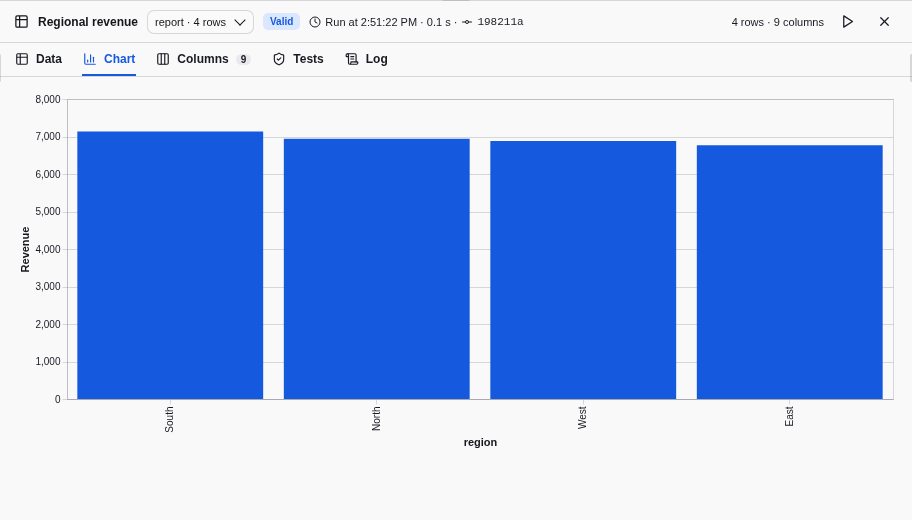
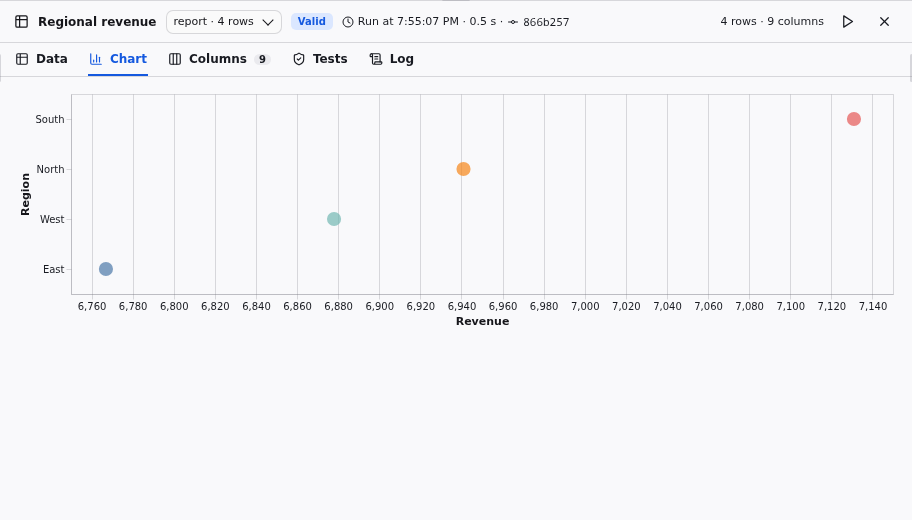
feat(charts): plot the example as points with tooltips
Northstar's regional revenues differ by about 5 %, which bars starting
at 0 hide. The example chart now plots one point per region on a
revenue axis that does not start at 0, leading region first, with a
tooltip on hover. Add a chart's starter bar chart enables tooltips too.

diff --git a/frontend/e2e/northstar.spec.ts b/frontend/e2e/northstar.spec.ts
@@ -72,7 +72,8 @@ test("Northstar runs its data tests, messages, computed variable and shared view
     "10 of 107 rows match",
   );
 
-  // Regional revenue charts its ranked regions, the leading region first.
+  // Regional revenue charts its ranked regions, the leading region first, on
+  // a revenue axis that does not start at 0.
   await node("report").locator(".node-shape").click();
   await page.getByLabel("Output", { exact: true }).selectOption("report");
   await results.getByRole("tab", { name: "Chart", exact: true }).click();
@@ -80,12 +81,18 @@ test("Northstar runs its data tests, messages, computed variable and shared view
     "Revenue by region",
   );
   const chart = results.locator(".chart-view svg");
-  await expect(chart.locator(".mark-rect path")).toHaveCount(4);
-  const regions = chart
-    .locator(".role-axis")
-    .filter({ hasText: "region" })
-    .locator(".role-axis-label text");
-  await expect(regions).toHaveText(["South", "North", "West", "East"]);
+  const points = chart.locator(".mark-symbol path");
+  await expect(points).toHaveCount(4);
+  const axis = (title: string) =>
+    chart
+      .locator(".role-axis")
+      .filter({ has: page.locator(".role-axis-title", { hasText: title }) })
+      .locator(".role-axis-label text");
+  await expect(axis("Region")).toHaveText(["South", "North", "West", "East"]);
+  await expect(axis("Revenue").first()).not.toHaveText("0");
+  // Hovering a point shows its values as a tooltip.
+  await points.first().hover();
+  await expect(page.locator("#vg-tooltip-element")).toContainText("South");
   // The chart fits the panel's width rather than overflowing it.
   const view = results.locator(".chart-view");
   expect(

diff --git a/frontend/src/charts.test.ts b/frontend/src/charts.test.ts
@@ -8,7 +8,7 @@ const COLUMNS = [
   { name: "orders", type: "BIGINT" },
 ];
 
-it("creates charts.json with a bar chart of the first two columns", () => {
+it("creates charts.json with a bar chart of the first two columns, with tooltips", () => {
   const bundle = {} as Bundle;
   addStarterChart(bundle, "report::sales:result", "New chart", COLUMNS);
   expect(bundle.charts).toEqual({
@@ -17,7 +17,7 @@ it("creates charts.json with a bar chart of the first two columns", () => {
         name: "New chart",
         spec: {
           $schema: "https://vega.github.io/schema/vega-lite/v6.json",
-          mark: "bar",
+          mark: { type: "bar", tooltip: true },
           encoding: {
             x: { field: "region", type: "nominal" },
             y: { field: "revenue", type: "quantitative" },
@@ -70,7 +70,7 @@ it("keeps the charts of other outputs", () => {
         name: "New chart",
         spec: {
           $schema: "https://vega.github.io/schema/vega-lite/v6.json",
-          mark: "bar",
+          mark: { type: "bar", tooltip: true },
           encoding: { x: { field: "region", type: "nominal" } },
         },
       },

diff --git a/frontend/e2e/chart-tab.spec.ts b/frontend/e2e/chart-tab.spec.ts
@@ -139,7 +139,7 @@ test("Add a chart creates charts.json in one commit and opens it in Code", async
         name: en.chartStarterName,
         spec: {
           $schema: "https://vega.github.io/schema/vega-lite/v6.json",
-          mark: "bar",
+          mark: { type: "bar", tooltip: true },
           encoding: {
             x: { field: x, type: "nominal" },
             y: { field: y, type: "quantitative" },
@@ -200,7 +200,7 @@ test("Add a chart on a stale revision reports the conflict and keeps both change
   expect(
     JSON.parse(conflict.proposal["charts.json"])["validated:orders"][0].spec
       .mark,
-  ).toBe("bar");
+  ).toEqual({ type: "bar", tooltip: true });
 });
 
 test("readers and read-only branches see no Add a chart, and a reader cannot save one", async ({

diff --git a/frontend/src/charts.ts b/frontend/src/charts.ts
@@ -58,8 +58,8 @@ export function unknownFields(spec: ChartSpec, columns: Column[]) {
 }
 
 /**
- * Add a starter bar chart of the first two columns to an output (`node:port`),
- * creating charts.json when the project has none.
+ * Add a starter bar chart of the first two columns, with tooltips, to an output
+ * (`node:port`), creating charts.json when the project has none.
  */
 export function addStarterChart(
   bundle: Bundle,
@@ -72,7 +72,7 @@ export function addStarterChart(
     name,
     spec: {
       $schema: "https://vega.github.io/schema/vega-lite/v6.json",
-      mark: "bar",
+      mark: { type: "bar", tooltip: true },
       encoding: {
         ...(x && { x: { field: x.name, type: "nominal" } }),
         ...(y && { y: { field: y.name, type: "quantitative" } }),

diff --git a/frontend/docs/capture.spec.ts b/frontend/docs/capture.spec.ts
@@ -114,7 +114,7 @@ test("record a real pipeline, source lineage and SQL workspace", async ({
     const results = page.getByRole("region", { name: "Results", exact: true });
     await click(page, results.getByRole("tab", { name: "Chart", exact: true }));
     await expect(
-      results.locator(".chart-view svg .mark-rect path"),
+      results.locator(".chart-view svg .mark-symbol path"),
     ).toHaveCount(4);
     await page.waitForTimeout(1800);
     await click(page, results.getByRole("tab", { name: "Data", exact: true }));

diff --git a/frontend/docs/screenshots.spec.ts b/frontend/docs/screenshots.spec.ts
@@ -369,7 +369,9 @@ test("capture the results panel: samples, columns, tests, log and chart", async 
   await expect(panel.getByRole("figure")).toHaveAccessibleName(
     "Revenue by region",
   );
-  await expect(panel.locator(".chart-view svg .mark-rect path")).toHaveCount(4);
+  await expect(panel.locator(".chart-view svg .mark-symbol path")).toHaveCount(
+    4,
+  );
   await capture(page, "results-chart", panel);
 });
 

diff --git a/tests/test_api.py b/tests/test_api.py
@@ -192,21 +192,18 @@ def test_example_runs_its_checks_messages_and_variables(app, client):
     snapshot = client.get(f"/api/worktrees/{example['id']}").json()
     assert snapshot["diagnostics"] == []
     assert [view["name"] for view in snapshot["bundle"]["views"]["validated:orders"]] == ["Orders to review"]
-    # The ranked output of Regional revenue, stored inside the instance, has a valid bar chart.
-    assert snapshot["bundle"]["charts"] == {
-        "report::rank:result": [
-            {
-                "name": "Revenue by region",
-                "spec": {
-                    "$schema": "https://vega.github.io/schema/vega-lite/v6.json",
-                    "mark": "bar",
-                    "encoding": {
-                        "x": {"field": "region", "type": "nominal", "sort": "-y"},
-                        "y": {"field": "revenue", "type": "quantitative", "title": "Revenue"},
-                    },
-                },
-            }
-        ]
+    # The ranked output of Regional revenue, stored inside the instance, has a valid chart: points
+    # with tooltips on a revenue axis that does not start at 0.
+    assert list(snapshot["bundle"]["charts"]) == ["report::rank:result"]
+    [chart] = snapshot["bundle"]["charts"]["report::rank:result"]
+    assert chart["name"] == "Revenue by region"
+    assert chart["spec"]["mark"] == {"type": "circle", "size": 200, "tooltip": True}
+    assert chart["spec"]["encoding"]["x"] == {
+        "field": "revenue",
+        "type": "quantitative",
+        "title": "Revenue",
+        "format": ",",
+        "scale": {"zero": False},
     }
     response = client.post(f"/api/worktrees/{example['id']}/runs", json={"environment": "dev"})
     run = wait_run(app.state.services.store, response.json(), timeout=120)

diff --git a/src/duckpad/example.py b/src/duckpad/example.py
@@ -401,12 +401,26 @@ SELECT 'The report has no rows' AS problem FROM {{ source }} HAVING COUNT(*) = 0
             "report::rank:result": [
                 {
                     "name": "Revenue by region",
+                    # Points on an axis that does not start at 0: regional revenues differ by a few percent.
                     "spec": {
                         "$schema": "https://vega.github.io/schema/vega-lite/v6.json",
-                        "mark": "bar",
+                        "mark": {"type": "circle", "size": 200, "tooltip": True},
+                        "height": 200,
                         "encoding": {
-                            "x": {"field": "region", "type": "nominal", "sort": "-y"},
-                            "y": {"field": "revenue", "type": "quantitative", "title": "Revenue"},
+                            "x": {
+                                "field": "revenue",
+                                "type": "quantitative",
+                                "title": "Revenue",
+                                "format": ",",
+                                "scale": {"zero": False},
+                            },
+                            "y": {"field": "region", "type": "nominal", "sort": "-x", "title": "Region"},
+                            "color": {
+                                "field": "region",
+                                "type": "nominal",
+                                "title": "Region",
+                                "legend": None,
+                            },
                         },
                     },
                 }

diff --git a/docs/CHARTS.md b/docs/CHARTS.md
@@ -6,17 +6,17 @@ they read the retained result, never start a run and never make a result stale.
 Aggregate, bin and filter in SQL nodes, so that every plotted value is a cell of
 a node output and can be [explained](LINEAGE.md).
 
-![The Chart tab of Regional revenue with the Revenue by region bar chart](images/results-chart.png)
+![The Chart tab of Regional revenue with the Revenue by region dot plot](images/results-chart.png)
 
 ## Add a chart
 
 Charts are declared in `charts.json`, at the root of the project. For an output
 without a chart, the Chart tab offers **Add a chart** to editors and
-administrators: it saves a starter bar chart of the first two columns, creating
-`charts.json` when the project has none, and opens the file in the
-[Code tab](AUTHORING.md#edit-and-share-project-files). Edit the spec there, or in
-an external editor, then save. Readers, operators and read-only branches such as
-Job results see the charts without this action.
+administrators: it saves a starter bar chart of the first two columns, with
+tooltips, creating `charts.json` when the project has none, and opens the file
+in the [Code tab](AUTHORING.md#edit-and-share-project-files). Edit the spec
+there, or in an external editor, then save. Readers, operators and read-only
+branches such as Job results see the charts without this action.
 
 Adding a chart is a normal save: one commit, refused without the save permission,
 and a conflict to resolve when someone else saved first. The Northstar
@@ -33,10 +33,23 @@ and a conflict to resolve when someone else saved first. The Northstar
       "name": "Revenue by region",
       "spec": {
         "$schema": "https://vega.github.io/schema/vega-lite/v6.json",
-        "mark": "bar",
+        "mark": {"type": "circle", "size": 200, "tooltip": true},
+        "height": 200,
         "encoding": {
-          "x": {"field": "region", "type": "nominal", "sort": "-y"},
-          "y": {"field": "revenue", "type": "quantitative", "title": "Revenue"}
+          "x": {
+            "field": "revenue",
+            "type": "quantitative",
+            "title": "Revenue",
+            "format": ",",
+            "scale": {"zero": false}
+          },
+          "y": {"field": "region", "type": "nominal", "sort": "-x", "title": "Region"},
+          "color": {
+            "field": "region",
+            "type": "nominal",
+            "title": "Region",
+            "legend": null
+          }
         }
       }
     }
@@ -60,6 +73,11 @@ and a conflict to resolve when someone else saved first. The Northstar
 Fields name the output's columns. With several charts, a selector above the
 chart switches between them by name. A chart without `width` takes the width of
 the panel.
+
+The example plots points on a revenue axis that starts near the smallest value
+(`"scale": {"zero": false}`): bars always start at 0, which hides differences of
+a few percent. `"tooltip": true` on the mark shows the encoded values on hover;
+a `tooltip` channel picks other columns.
 
 ## Allowed specs
 

diff --git a/docs/EXAMPLE.md b/docs/EXAMPLE.md
@@ -10,7 +10,7 @@ of the steps below, regenerated from the application with Playwright.
 
 1. Run the pipeline in `dev`. Reporting period, marked **ƒ**, runs first: the computed `report_month` variable reads its month before the other nodes run. Orders reads 120 CSV rows and Customers reads 12 Parquet rows. Enrich orders performs a customer join; its `every_order_matched` test fails the node if an order has no customer.
 2. Select Paid orders. Its `orders` output contains paid rows, while `overview` reads that newly calculated output in a second SQL block. Switch outputs in the results panel, or show its `source` input to compare the rows before the filter.
-3. Open Regional revenue. It is an instance of the shared Regional report component. The High-value orders node uses the same definition with a different exposed filter condition. The **Chart** tab of Regional revenue draws revenue by region, the leading region first, from the bar chart declared in `charts.json`; see [charts](CHARTS.md).
+3. Open Regional revenue. It is an instance of the shared Regional report component. The High-value orders node uses the same definition with a different exposed filter condition. The **Chart** tab of Regional revenue plots revenue by region, the leading region first, from the chart declared in `charts.json` (see [charts](CHARTS.md)). Hover a point to see its values.
 4. Double-click Regional summary inside the report. This second component contains a filter and metrics for `SUM`, `AVG`, `MIN`, `MAX`, `COUNT` and `COUNT(DISTINCT customer_id)`.
 5. Return to the report. Rank regions uses a window function over the grouped result. Inspect its current and executed SQL separately.
 6. Select Customer reach. Its four ordered outputs use `DISTINCT`, `UNION`, `INTERSECT` and `EXCEPT` to compare customer channels.
